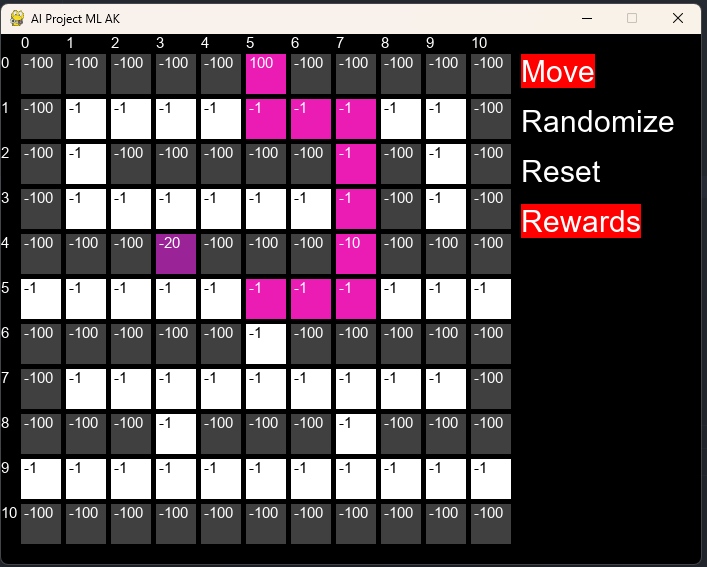
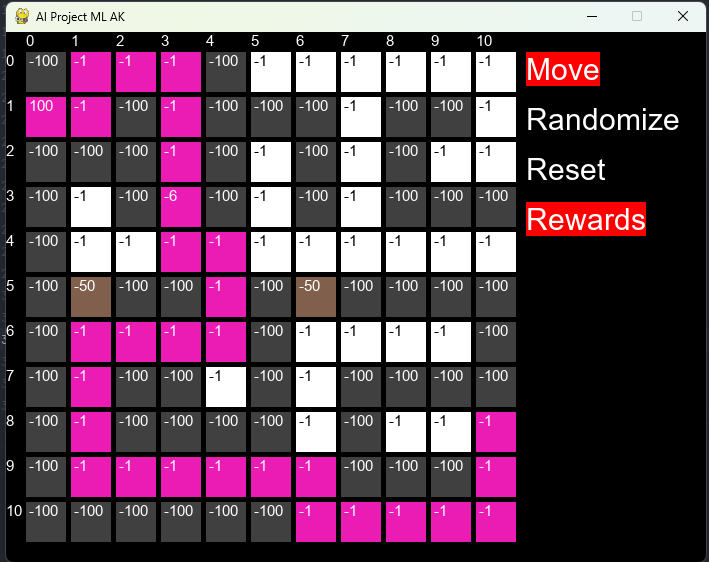
Fence Mud values
Took 4 minutes

diff --git a/Contstants/FieldConstants.py b/Contstants/FieldConstants.py
@@ -27,14 +27,14 @@ FIELDS.append(Target)
 INDEX_TARGET = 2
 
 Mud = {
-    "Pts": -50,
+    "Pts": -10,
     "Icon": '&',
     "Color": Colors.BROWN
 }
 FIELDS.append(Mud)
 
 Fence = {
-    "Pts": -6,
+    "Pts": -30,
     "Icon": 'H',
     "Color": Colors.DARK_GREEN
 }
